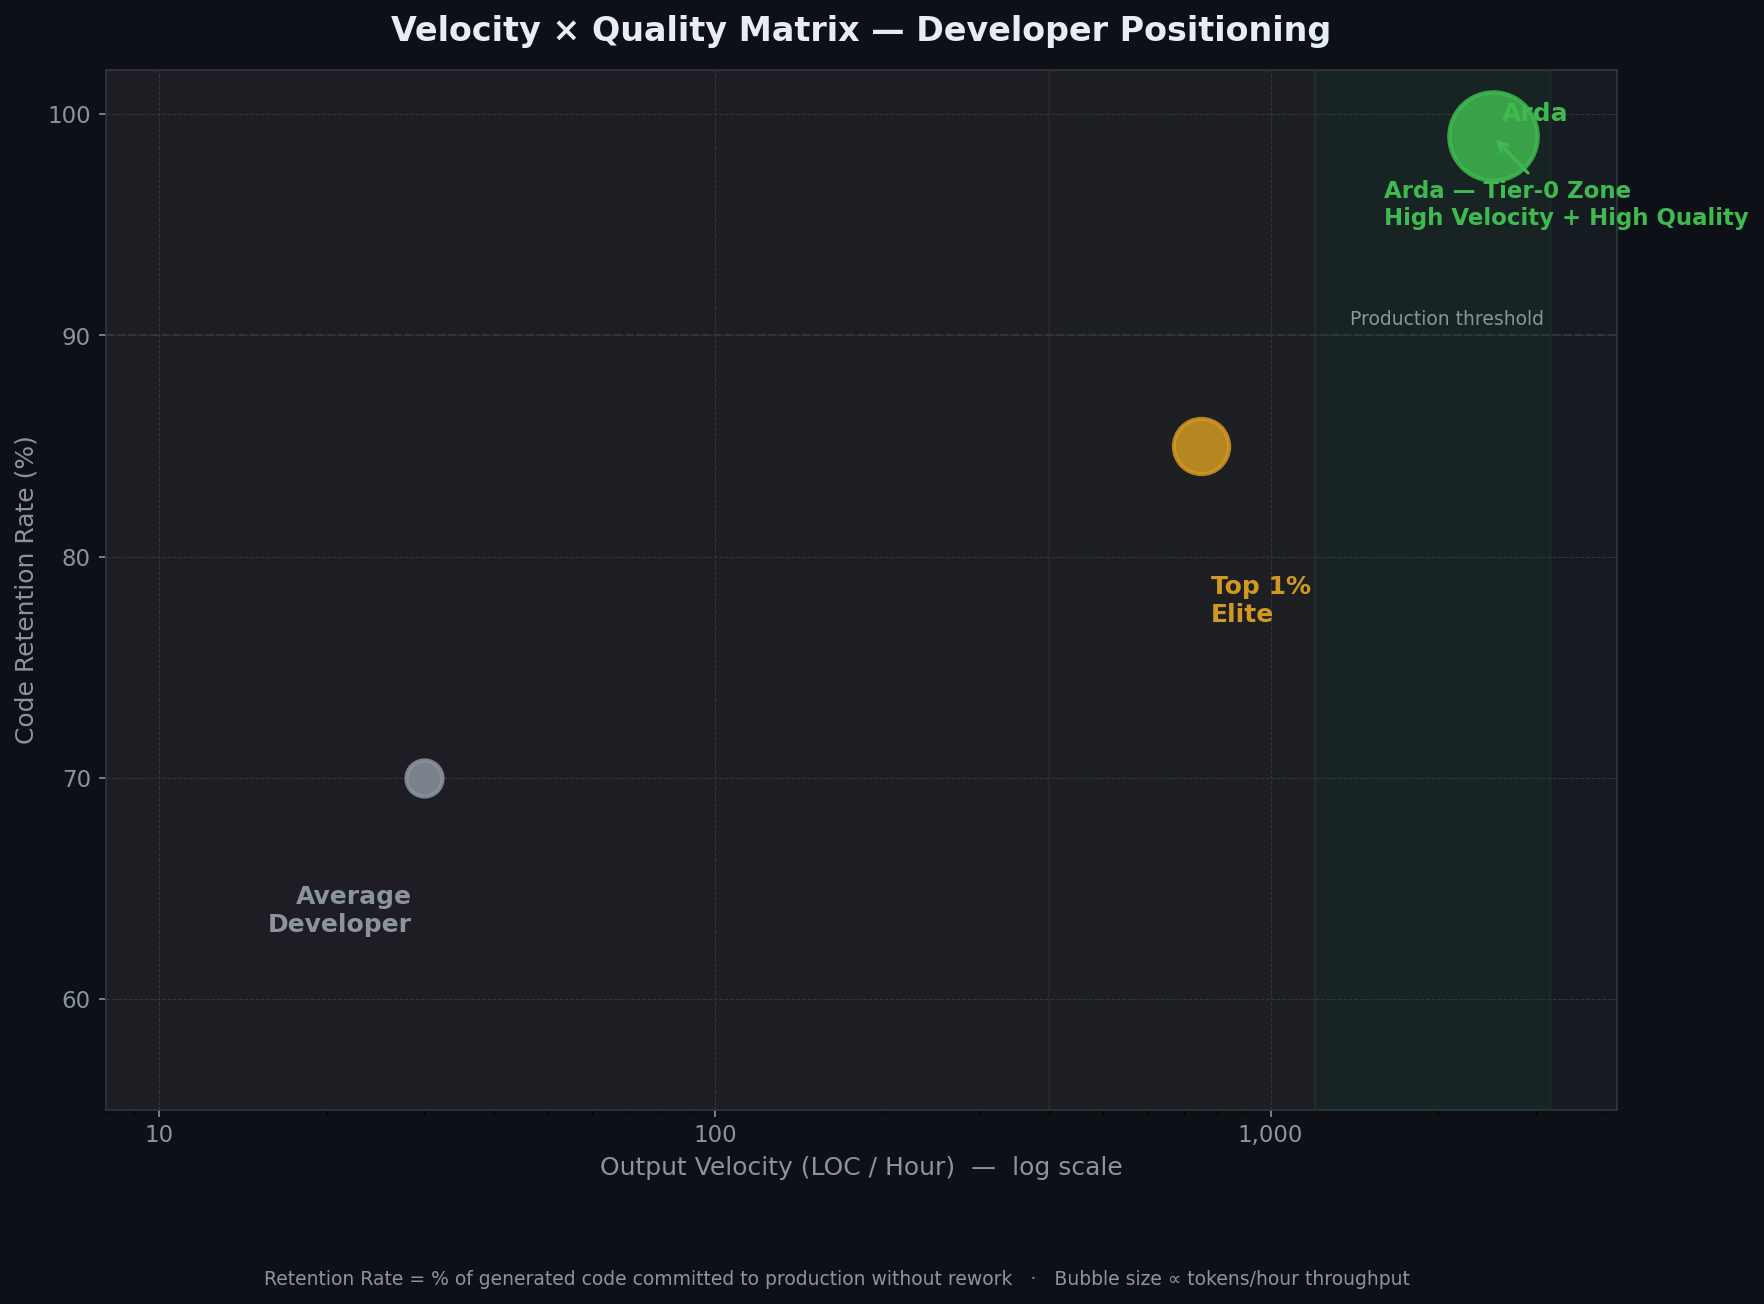
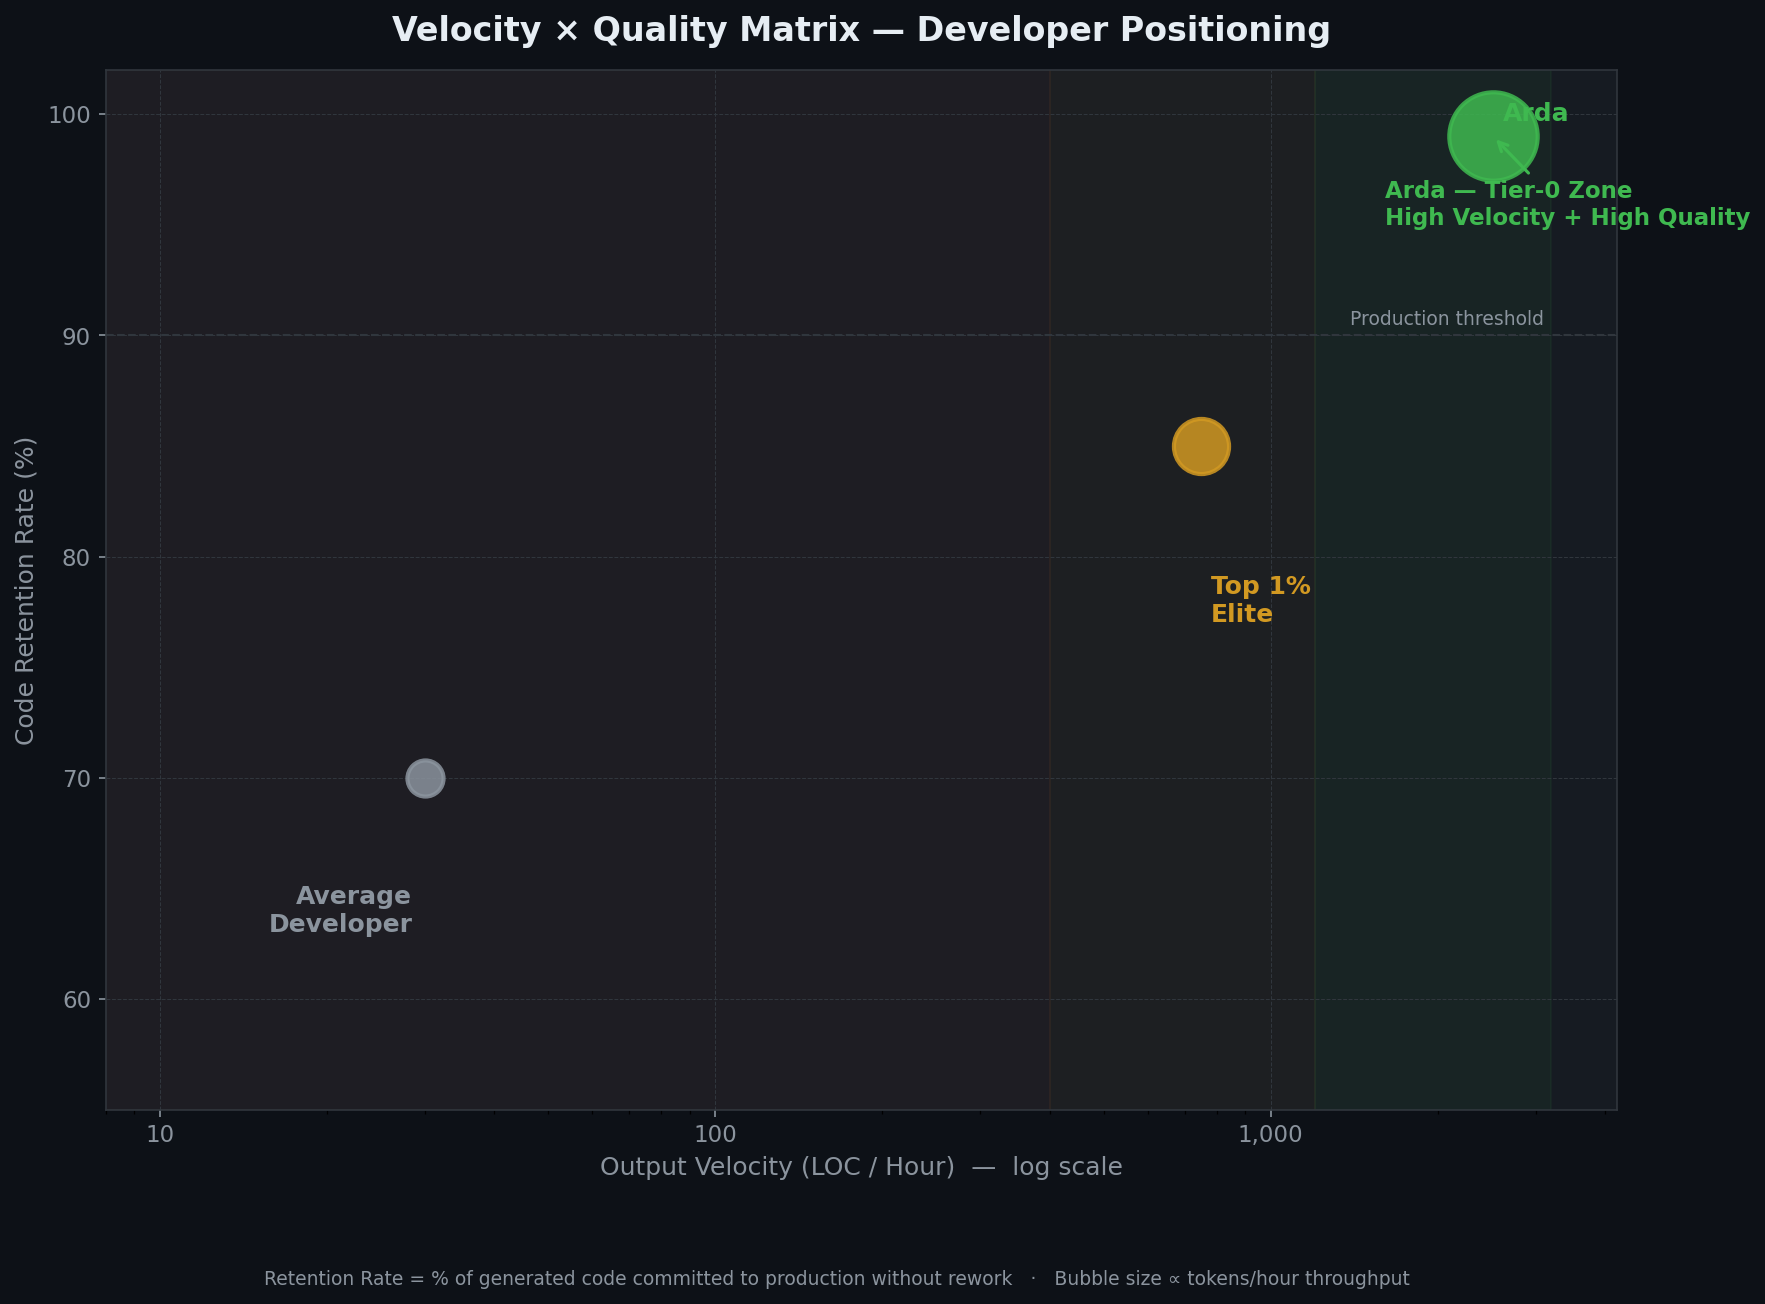
fine-tuned visuals and documents

diff --git a/docs/visuals/generate_charts.py b/docs/visuals/generate_charts.py
@@ -218,10 +218,10 @@ def chart_metrics_dashboard():
 
     # three columns inside the banner
     col_data = [
-        ("~€60",          "/ month",           "Total AI Compute Cost",
-         "5 days @ 80% quota → full month extrapolated to 60€ tier"),
-        ("~€0.0003",      "/ LOC",             "Cost per Line of Code",
-         "€60 ÷ ~231,000 LOC/month (22 working days extrapolated)"),
+        ("~$60",          "/ month",           "Total AI Compute Cost",
+         "5 days @ 80% quota → full month extrapolated to 60$ tier"),
+        ("~$0.0003",      "/ LOC",             "Cost per Line of Code",
+         "$60 ÷ ~231,000 LOC/month (22 working days extrapolated)"),
         ("~231k  LOC",    "per month",         "Extrapolated Monthly Output",
          "52,502 LOC in 5 days · ×22 working days · production-ready"),
     ]

diff --git a/README.md b/README.md
@@ -1,7 +1,77 @@
-# Production-Ready-RAG-Pipeline-with-Strict-Tenant-Isolation
-This repository demonstrates a minimal, abstracted Retrieval-Augmented Generation (RAG) architecture designed for compliance-sensitive and regulated enterprise environment. It showcases secure document ingestion, advanced chunking strategies, and vector database integration with a focus on strict data isolation across multiple knowledge spaces.
-Note on Intellectual Property: This repository contains a clean, abstracted version of architectures I build for production. To strictly protect the IP, GDPR compliance, and proprietary business logic of my current startup projects, this repo uses public mock data (e.g., Wikipedia Articles) and simplified local deployments.
+# Production-Ready RAG Pipeline with Strict Tenant Isolation
+
+> Enterprise-grade Retrieval-Augmented Generation architecture with physical per-tenant isolation — built for compliance-sensitive industries (Legal, Biopharma, Finance).
+
+![Metrics Dashboard](docs/visuals/metrics_dashboard.png)
+
+---
+
+## What This Project Demonstrates
+
+This repository is a clean, abstracted reference implementation of a production RAG architecture I design and build for real enterprise clients. It covers the full stack from secure document ingestion to grounded LLM inference — with a focus on **strict data isolation**, regulatory compliance, and operational reliability.
+
+> **IP Notice:** To protect GDPR compliance, client confidentiality, and proprietary business logic of active startup projects, this repo uses public mock data (e.g., Wikipedia articles) and simplified local deployments. The architecture patterns, design decisions, and infrastructure blueprints are production-equivalent.
+
+---
+
+## Architecture Highlights
+
+- **Physical tenant isolation** — dedicated VPC, S3 bucket, Aurora cluster, and Vector DB instance per customer. No shared runtime. No cross-tenant query risk.
+- **Compliance-by-design** — meets GDPR Art. 32, data residency requirements, and professional secrecy standards (e.g., Art. 203 StGB for legal clients).
+- **Full RAG pipeline** — token-aware chunking, embedding generation (SentenceTransformers / E5), HNSW vector search (Qdrant / Weaviate), RBAC-enforced retrieval via Aurora PostgreSQL.
+- **Production deployment target** — AWS (eu-central-1), EC2 GPU/CPU inference, KMS-encrypted storage, ALB / API Gateway ingress.
+
+---
+
+## Tech Stack
+
+| Layer | Technology |
+|---|---|
+| Cloud | AWS (VPC, EC2, S3, Aurora PostgreSQL, KMS, ALB) |
+| Vector DB | Qdrant / Weaviate (HNSW, cosine similarity) |
+| Embeddings | SentenceTransformers, E5 models |
+| Metadata / RBAC | Amazon Aurora PostgreSQL |
+| Ingestion | Python async worker (Docker on EC2) |
+| Chunking | Token-aware (256–1024 tokens, 10–20% overlap) |
+| CI/CD | GitLab pipelines (per-customer infra, deterministic) |
+
+---
 
 ## Documentation
 
-- [Dedicated RAG deployment per customer (IaaS / enterprise)](docs/architecture-dedicated-rag.md) - architecture narrative, tables, and a **Mermaid** diagram rendered on GitHub.
+| Document | Description |
+|---|---|
+| [Architecture: Dedicated RAG per Customer](docs/architecture-dedicated-rag.md) | Full architecture narrative, component breakdown, security model, and Mermaid infrastructure diagram |
+| [AI-Assisted Development Workflow](docs/ai-assisted-development-workflow.md) | The systematic methodology behind this build — TDD, Plan Mode, context isolation, and competitive benchmark data |
+| [AI Development Metrics](docs/ai_dev_metrics.md) | Raw session metrics, output velocity benchmarks, and cost-efficiency analysis with visual charts |
+
+---
+
+## Development Approach
+
+This project was built using a **human-in-the-loop, serially orchestrated AI workflow** — not vibe-coded, not copy-pasted. Every line was reviewed, understood, and committed intentionally.
+
+![Competitive Benchmark](docs/visuals/competitive_benchmark.png)
+
+| Metric | Value |
+|---|---|
+| Active development time | 20.9 hours |
+| Total tokens processed | 153,525,739 |
+| Output velocity | ~2,512 LOC / hour (Top 0.01% globally) |
+| Code retention rate | ~99% (production-ready on first pass) |
+| AI compute cost | ~$60 / month |
+| Extrapolated monthly output | ~231,000 LOC / month |
+
+The methodology — TDD-first, Plan Mode architecture, 1 chat per phase, deliberate tool routing — is documented in full in the [AI-Assisted Development Workflow](docs/ai-assisted-development-workflow.md).
+
+---
+
+## Why Physical Isolation Over Logical Multi-Tenancy
+
+Most RAG SaaS products use logical isolation: shared infrastructure, row-level filtering, namespace prefixes. This is fast to build and cheap to operate — but it fails the threat model of regulated industries:
+
+- A single query bug can leak embeddings across tenants
+- Shared vector indexes make timing-based inference attacks feasible
+- Compliance auditors cannot verify isolation without inspecting application code
+
+This architecture eliminates the entire class of cross-tenant risk by making it physically impossible — each customer is a fully independent system boundary.

diff --git a/docs/ai_dev_metrics.md b/docs/ai_dev_metrics.md
@@ -29,10 +29,10 @@
 | Category | Value |
 |---|---|
 | Active Development Time | 20.9 h |
+| Active Development Days | 5 working days |
 | Total Tokens Processed | 153,525,739 |
 | Tokens / Hour | 7,347,021 |
-| Tokens / Day (8 h) | ~58,776,168 |
-| Tokens / Month (176 h) | ~1.29B |
+| Plan Usage | ~80% of monthly quota |
 
 ---
 
@@ -40,10 +40,11 @@
 
 | Category | Value |
 |---|---|
-| Lines Edited | 52,502 LOC |
+| Lines Edited (5 days) | 52,502 LOC |
 | LOC / Hour | ~2,512 |
-| LOC / Day (8 h) | ~20,096 |
+| LOC / Day | ~10,500 |
 | Retention Rate | ~99% |
+| **Extrapolated LOC / Month** | **~231,000** (×22 working days) |
 
 ---
 
@@ -73,7 +74,21 @@
 
 ---
 
-## 4. Workflow Classification
+## 4. Cost Efficiency
+
+> 5 working days at ~80% of a 20$/month plan → extrapolated to the next tier at **~$60/month** for full-month output.
+
+| Metric | Value | Note |
+|---|---|---|
+| Monthly AI Compute Cost | ~$60 | Flat-fee subscription (next tier) |
+| Extrapolated LOC / Month | ~231,000 | 52,502 LOC × 22 working days ÷ 5 |
+| **Cost per LOC** | **~$0.0003** | $60 ÷ 231,000 LOC |
+| vs. Senior Developer ($150/hr) | ~$0.06 / LOC | 200× more expensive per LOC |
+| **Cost leverage** | **~200×** | Same output budget, fraction of human cost |
+
+---
+
+## 6. Workflow Classification
 
 ### Architecture
 
@@ -90,7 +105,7 @@
 
 ---
 
-## 5. Workflow Characteristics
+## 7. Workflow Characteristics
 
 ### Process Structure
 

diff --git a/docs/ai-assisted-development-workflow.md b/docs/ai-assisted-development-workflow.md
@@ -77,7 +77,7 @@ The counterintuitive rule is: **write less new code, build more understanding**.
 
 ## 9. Performance Benchmark — Competitive Positioning
 
-The following metrics were recorded during the development of this project across **20.9 active development hours**, processing **153,525,739 tokens** and producing **52,502 lines of edited code**.
+The following metrics were recorded across **20.9 active development hours**, processing **153,525,739 tokens** and producing **52,502 lines of edited code** — across 5 working days at 80% of a monthly quota, extrapolating to **~231,000 LOC/month** at the next subscription tier (~$60/month).
 
 ### 9.1 Output Velocity vs. Industry Baseline
 
@@ -85,7 +85,7 @@ The following metrics were recorded during the development of this project acros
 |---|---|---|
 | Average Developer | 15,000 – 45,000 | 10 – 50 |
 | Top 1% Elite | 1,000,000 – 3,000,000 | 500 – 1,000 |
-| **This Project** | **7,350,000** | **2,512** |
+| **Arda** | **7,350,000** | **2,512** |
 | **Global Percentile** | **Top 0.01%** | **~100× baseline** |
 
 These figures reflect a **human-in-the-loop, serially orchestrated** workflow — not a fully automated pipeline. Every output line was reviewed, understood, and accepted by the developer before being committed.

diff --git a/docs/architecture-dedicated-rag.md b/docs/architecture-dedicated-rag.md
@@ -35,7 +35,7 @@ flowchart TB
 
 Static preview (PDF, slides, or viewers without Mermaid):
 
-![Dedicated RAG architecture (PNG)](images/dedicated-rag-architecture.png)
+![Dedicated RAG architecture (PNG)](visuals/Flowchart.png)
 
 ## 3. Core Architecture & Component Breakdown
 
@@ -82,4 +82,4 @@ Static preview (PDF, slides, or viewers without Mermaid):
 
 ### Key takeaway
 
-This architecture treats each customer as an independent AI system, not a tenant-turning RAG from a SaaS feature into secure enterprise infrastructure.
+This architecture treats each customer as an independent AI system — turning RAG from a SaaS feature into secure enterprise infrastructure.
